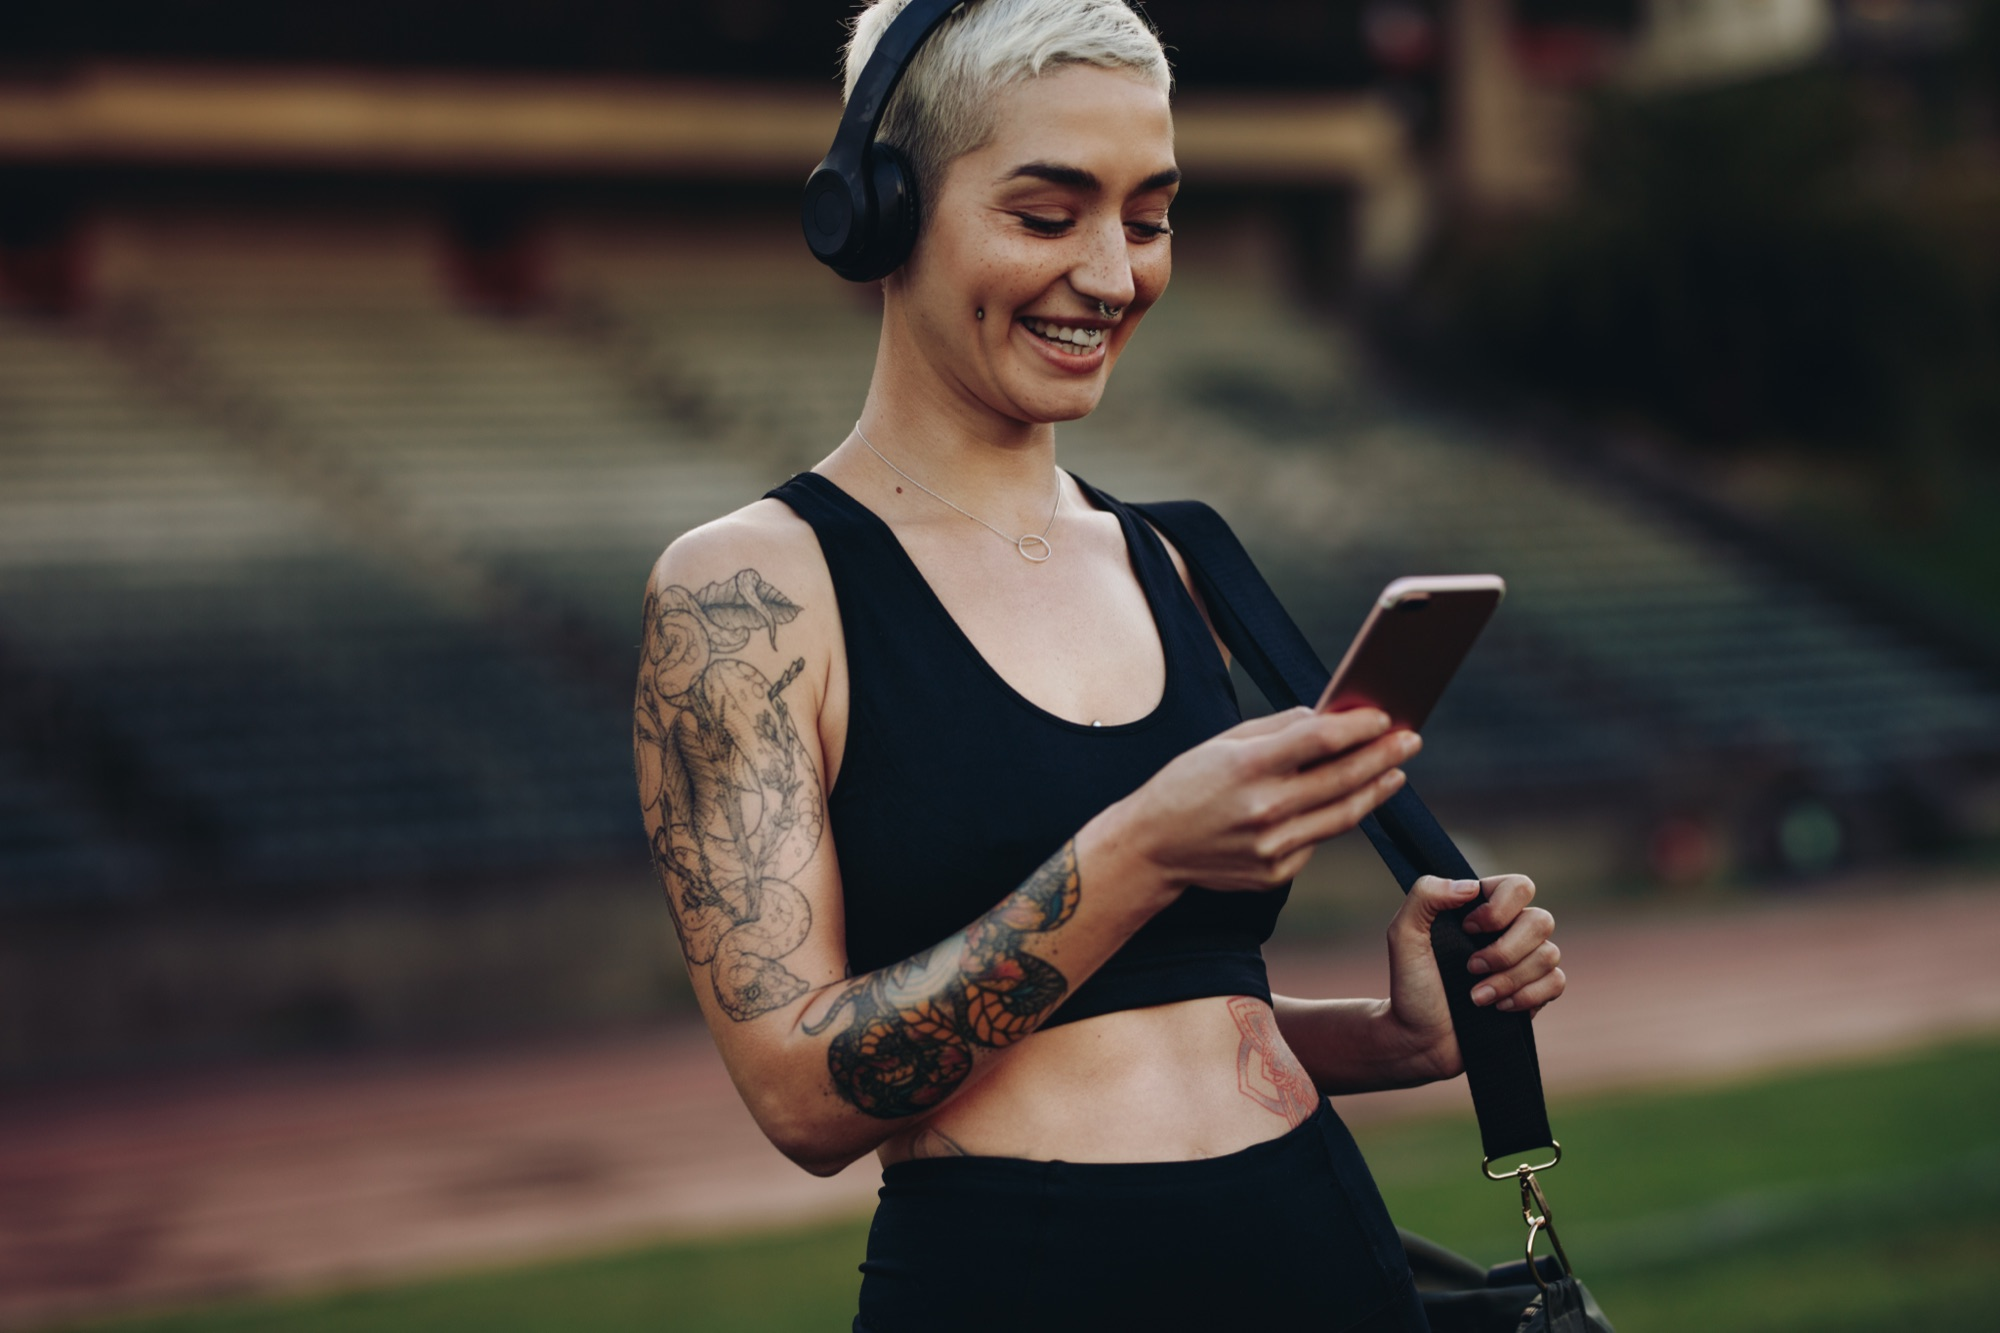
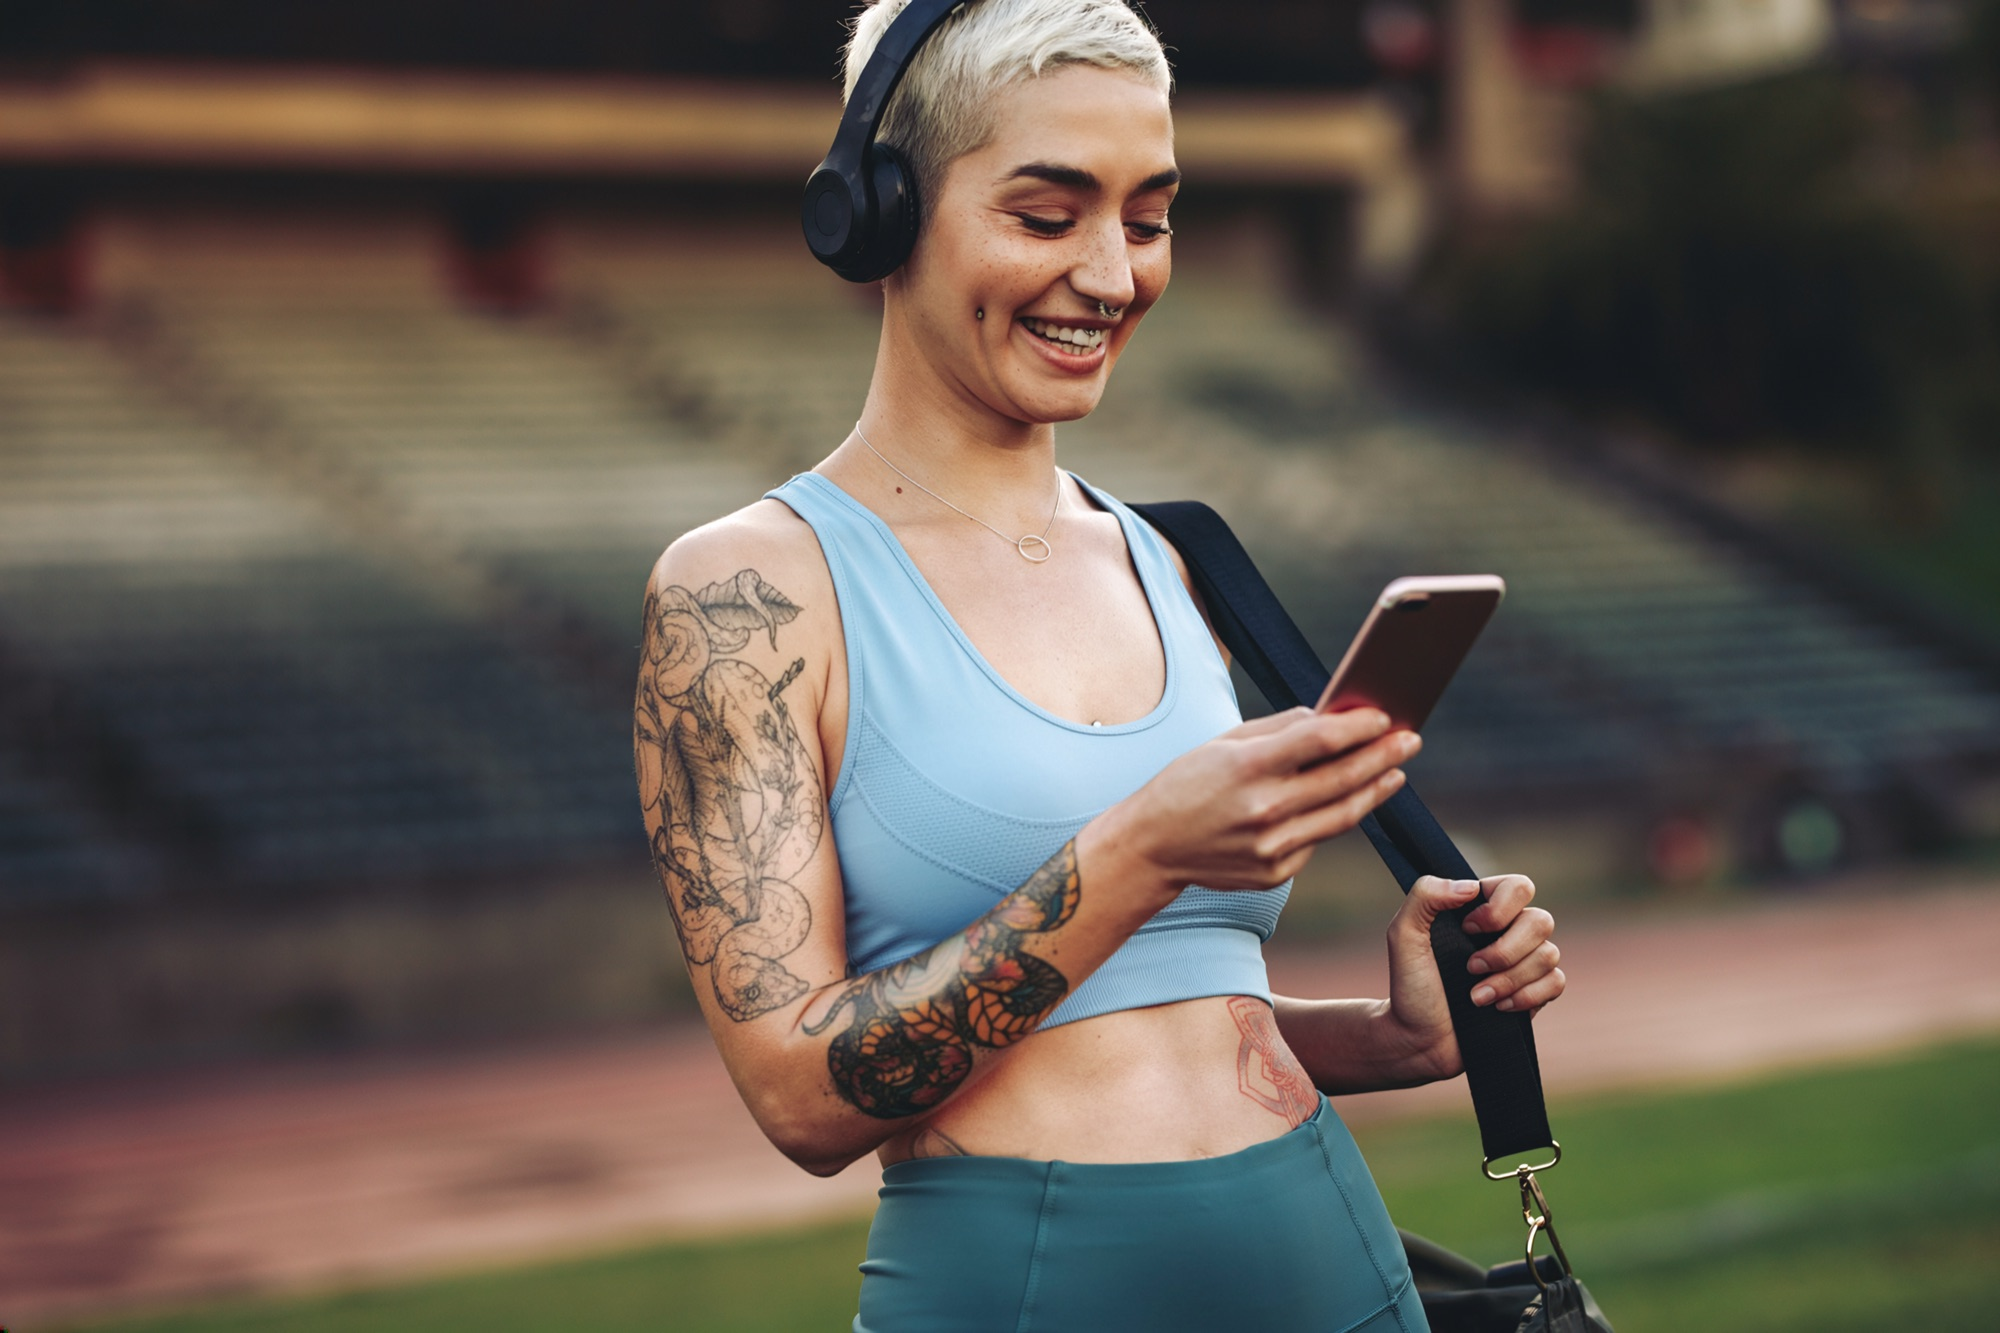
Update step 3 card image and fix section spacing
Swap step 3 photo, remove its brightness boost that was tuned for the
old darker source, and align Learn more/FAQ section gaps to 24px.

diff --git a/styles.css b/styles.css
@@ -1351,10 +1351,9 @@ button:focus-visible .btn-label__track {
   object-position: center;
 }
 
-/* Cards 1 and 3's source photos run darker/moodier than card 2 — lightened
+/* Card 1's source photo runs darker/moodier than the others — lightened
    to even out the row's exposure. */
-.step-card:nth-child(1) .step-card__image,
-.step-card:nth-child(3) .step-card__image {
+.step-card:nth-child(1) .step-card__image {
   filter: brightness(1.35);
 }
 
@@ -2170,7 +2169,7 @@ button:focus-visible .btn-label__track {
 
   /* Layout */
   --article-max-width: 1920px;
-  --article-outer-padding: 16px;
+  --article-outer-padding: 24px;
   --article-inset-padding-x: 104px;
   --article-inset-padding-y: 120px;
   --article-inset-radius: 24px;
@@ -2680,7 +2679,7 @@ button:focus-visible .btn-label__track {
 
 .faq {
   width: 100%;
-  padding: 16px;
+  padding: 0 24px 24px;
   background: var(--faq-surface-primary);
 }
 
